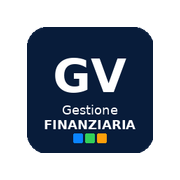
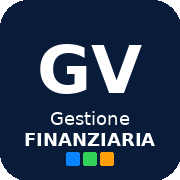
fix: ensure RGBA 32-bit format for Chrome PWA compatibility

diff --git a/pad_icons.js b/pad_icons.js
@@ -1,8 +1,8 @@
 import sharp from 'sharp';
 import fs from 'fs';
 
-async function processIcon(size, oldSuffix, newSuffix) {
-  const originalPath = `public/icon-${size}${oldSuffix}.png`;
+async function processIcon(size, newSuffix) {
+  const originalPath = `public/icon-${size}.png`;
   const targetPath = `public/icon-${size}${newSuffix}.png`;
   
   const innerSize = Math.round(size * 0.8);
@@ -16,21 +16,22 @@ async function processIcon(size, oldSuffix, newSuffix) {
         bottom: padding,
         left: padding,
         right: padding,
-        background: { r: 37, g: 99, b: 235, alpha: 1 } // un bel blu, tipo #2563eb
+        background: { r: 37, g: 99, b: 235, alpha: 1 } // Solid blue
       })
-      .flatten({ background: { r: 37, g: 99, b: 235 } }) 
-      .resize(size, size) // force exact size in case of rounding errors
+      .flatten({ background: { r: 37, g: 99, b: 235 } }) // Fill transparent pixels with blue
+      .ensureAlpha() // FORCE 32-bit RGBA PNG (Required for Chrome PWA shortcuts)
+      .resize(size, size)
       .toFile(targetPath);
       
-    console.log(`Successfully processed icon-${size}.png`);
+    console.log(`Successfully processed icon-${size}.png to 32-bit RGBA`);
   } catch (e) {
     console.error(`Failed for size ${size}`, e);
   }
 }
 
-async function processAppleIcon(oldSuffix, newSuffix) {
+async function processAppleIcon(newSuffix) {
   const size = 180;
-  const originalPath = `public/apple-touch-icon${oldSuffix}.png`;
+  const originalPath = `public/apple-touch-icon.png`;
   const targetPath = `public/apple-touch-icon${newSuffix}.png`;
   
   const innerSize = Math.round(size * 0.8);
@@ -44,22 +45,23 @@ async function processAppleIcon(oldSuffix, newSuffix) {
         bottom: padding,
         left: padding,
         right: padding,
-        background: { r: 37, g: 99, b: 235, alpha: 1 } // #2563eb
+        background: { r: 37, g: 99, b: 235, alpha: 1 }
       })
       .flatten({ background: { r: 37, g: 99, b: 235 } })
+      .ensureAlpha()
       .resize(size, size)
       .toFile(targetPath);
       
-    console.log(`Successfully processed apple-touch-icon.png`);
+    console.log(`Successfully processed apple-touch-icon.png to 32-bit RGBA`);
   } catch (e) {
     console.error(`Failed for apple touch icon`, e);
   }
 }
 
 Promise.all([
-  processIcon(192, '-v5', '-v6'),
-  processIcon(512, '-v5', '-v6'),
-  processAppleIcon('-v5', '-v6')
+  processIcon(192, '-v7'),
+  processIcon(512, '-v7'),
+  processAppleIcon('-v7')
 ]).then(() => {
   console.log('All icons processed successfully.');
 });

diff --git a/index.html b/index.html
@@ -4,10 +4,10 @@
     <meta charset="UTF-8" />
     <meta name="viewport" content="width=device-width, initial-scale=1.0" />
     <title>GV GestioneFinanziaria — Gruppo Visentin</title>
-    <link rel="icon" type="image/png" sizes="512x512" href="/icon-512-v6.png" />
-    <link rel="icon" type="image/png" sizes="192x192" href="/icon-192-v6.png" />
-    <link rel="apple-touch-icon" sizes="180x180" href="/apple-touch-icon-v6.png" />
-    <link rel="manifest" href="/manifest.json?v=6" />
+    <link rel="icon" type="image/png" sizes="512x512" href="/icon-512-v7.png" />
+    <link rel="icon" type="image/png" sizes="192x192" href="/icon-192-v7.png" />
+    <link rel="apple-touch-icon" sizes="180x180" href="/apple-touch-icon-v7.png" />
+    <link rel="manifest" href="/manifest.json?v=7" />
     <meta name="theme-color" content="#0a1628" />
     <meta name="application-name" content="GV GestioneFinanziaria" />
     <meta name="apple-mobile-web-app-title" content="GV Finanza" />
